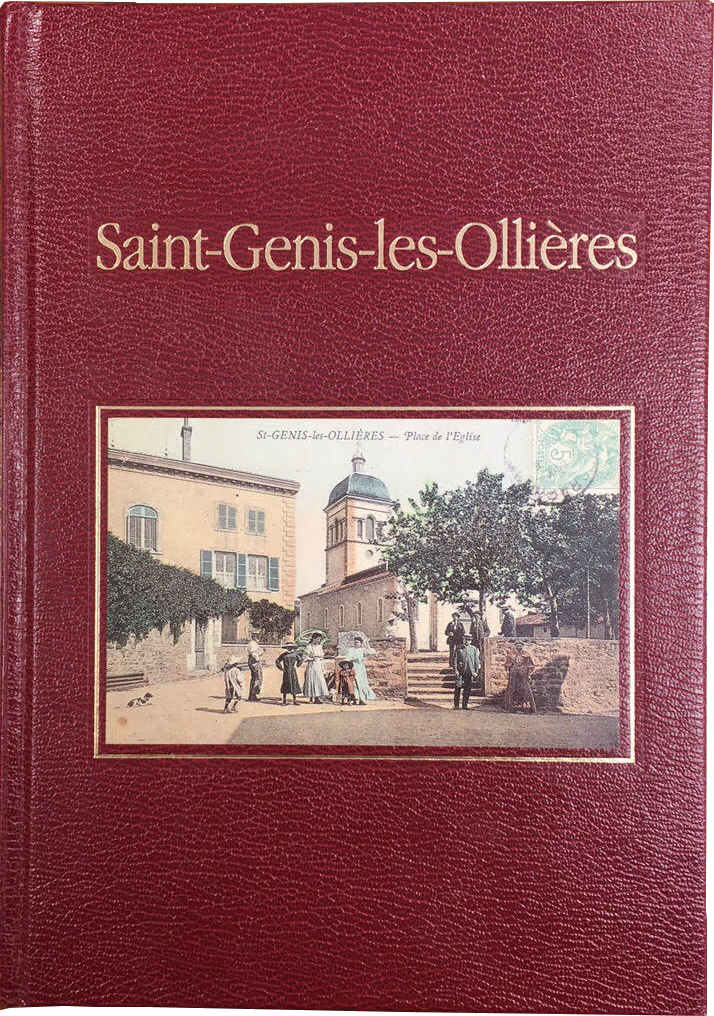
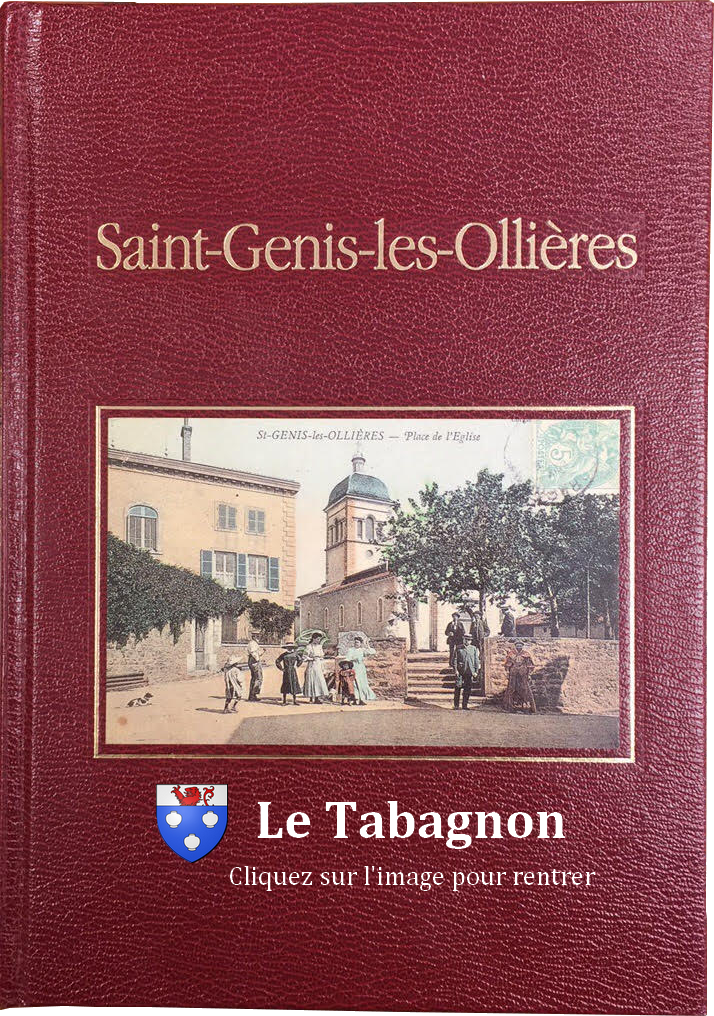
- Correction de fautes d'orthographes - Amélioration de la page de présentation - Corecctions diverses

Changed region(s): [[0.3081, 0.7628, 0.8319, 0.8848], [0.2157, 0.7628, 0.4314, 0.8543]]

diff --git a/public/assets/css/tabagnon.css b/public/assets/css/tabagnon.css
@@ -42,7 +42,7 @@ p {
 
 hr {
     max-width: 400px;
-    border-color: #999999;
+    border-color: #999999 !important;
 }
 
 .brand,
@@ -367,12 +367,7 @@ footer p {
 }
 
 .img-presentation{
-    object-fit: cover !important;
-    max-width : 30%;
-    margin-left : 7%;
-    margin-top : 2%;
-    margin-bottom : 2%;
-    float:left;
+    height : 50em;
 }
 
 .nomGuideVisite .ct{
@@ -444,8 +439,8 @@ body:after {
     height: 100px;
 }
 footer {
-    position: absolute;
-    width: 100%;
+    position: absolute !important;
+    width: 100% !important;
 }
 .sous-menu {
     text-decoration: none;

diff --git a/public/assets/js/tabagnon.js b/public/assets/js/tabagnon.js
@@ -42,6 +42,14 @@ $(document).ready(function () {
         dropdown: true,
         scrollbar: true
     });
+    var width = window.innerWidth
+            || document.documentElement.clientWidth
+            || document.body.clientWidth;
+
+    var height = window.innerHeight
+            || document.documentElement.clientHeight
+            || document.body.clientHeight;
+   
 });
 
 function checkSelected() {

diff --git a/resources/views/pageCarousel.blade.php b/resources/views/pageCarousel.blade.php
@@ -10,8 +10,8 @@
         {{$message or ""}}
         <div class='col-md-4 col-md-offset-4'>
             <input type='hidden' name="imageCarousel" value=""/>
-            <input type='hidden' name="MAX_FILE_SIZE" value="2048000"/>
-            <input type='file' name="imageCarousel" class="btn btn-default pull-left" accept="image/*"/> 
+            <input type='hidden' name="MAX_FILE_SIZE" value="5000000"/>
+            <input type='file' name="imageCarousel" class="btn btn-default" accept="image/*"/> 
         </div>
         
         <div class='col-md-offset-5 col-md-4'><button type="submit" class="btn btn-default btn-primary">
@@ -22,14 +22,14 @@
 </div>
 
 <div class="box">
-    <h1 class="carousel-title">Les images du carousel non affichées sur la page d'accueil</h1>
+    <h1 class="carousel-title">Les images du carrousel non affichées sur la page d'accueil</h1>
     <br>
     @foreach($lesImagesFalse as $uneImage)
     <div class='col-md-4 carousel-admin'>       
         <img class="img-news" src="{{ URL::asset('assets/image/carousel/'.$uneImage->image) }}" alt=""></a>
-        <a href='{{url('/ajouterCarousel/'.$uneImage->image)}}'><span class="glyphicon glyphicon-circle-arrow-down"></span> Ajouter l'image dans le carousel</a>
+        <a href='{{url('/ajouterCarousel/'.$uneImage->image)}}'><span class="glyphicon glyphicon-circle-arrow-down"></span> Ajouter l'image dans le carrousel</a>
         <br>
-        <a href='{{url('/supprimerCarousel/'.$uneImage->image)}}'><span class="glyphicon glyphicon-remove"></span> Supprimer l'image du carousel</a>
+        <a href='{{url('/supprimerCarousel/'.$uneImage->image)}}'><span class="glyphicon glyphicon-remove"></span> Supprimer l'image du carrousel</a>
     </div>
     @endforeach
 </div>
@@ -41,9 +41,9 @@
     @foreach($lesImagesTrue as $uneImage)   
     <div class='col-md-4 carousel-admin'>       
         <img class="img-news" src="{{ URL::asset('assets/image/carousel/'.$uneImage->image) }}" alt=""></a>
-        <a href='{{url('/retirerCarousel/'.$uneImage->image)}}'><span class="glyphicon glyphicon-circle-arrow-up"></span> Retirer l'image du carousel</a>
+        <a href='{{url('/retirerCarousel/'.$uneImage->image)}}'><span class="glyphicon glyphicon-circle-arrow-up"></span> Retirer l'image du carrousel</a>
         <br>
-        <a href='{{url('/supprimerCarousel/'.$uneImage->image)}}'><span class="glyphicon glyphicon-remove"></span> Supprimer l'image du carousel</a>       
+        <a href='{{url('/supprimerCarousel/'.$uneImage->image)}}'><span class="glyphicon glyphicon-remove"></span> Supprimer l'image du carrousel</a>       
     </div>
     
     @endforeach

diff --git a/resources/views/layouts/master.blade.php b/resources/views/layouts/master.blade.php
@@ -47,7 +47,7 @@
     <body onLoad="pass();">
         <div class="brand">
             <a href="{{url('/accueil')}}"><img src="{{URL::asset('assets/image/logoTabagnon.png')}}" alt="Logo Tabagnon" height="123" width="100"></a>
-            Tabagnon | <small>Saint-Genis-les-Ollières</small></div>
+            Le Tabagnon | <small>Saint-Genis-les-Ollières</small></div>
         <!-- Navigation -->
         <nav class="navbar navbar-default" role="navigation">
             <div class="container">
@@ -62,17 +62,17 @@
                     <!-- navbar-brand is hidden on larger screens, but visible when the menu is collapsed -->
                     <a class="navbar-brand" href="{{url('/accueil')}}">
                         <img src="{{URL::asset('assets/image/logoTabagnon.png')}}" alt="Logo Tabagnon" height="30" width="24">
-                        Association Tabagnon</a>
+                        Le Tabagnon</a> 
                 </div>
                 <!-- Collect the nav links, forms, and other content for toggling -->
-                <div class="collapse navbar-collapse" id="bs-example-navbar-collapse-1">
+                <div class="collapse navbar-collapse" id="bs-example-navbar-collapse-1"> 
                     @if(Session::get('ncpt') == 4)
                     <ul class="nav navbar-nav"> 
-                        <li><a href='{{ url('/getPageAdmin')}}' data-toggle='collapse' data-target='.navbar-collapse.in' class=''>Pannel Administration</a></li><hr>
+                        <li><a href='{{ url('/getPageAdmin')}}' data-toggle='collapse' data-target='.navbar-collapse.in' class=''>Pannel Administration</a></li>
                     </ul>
                     <hr>
-                    @endif
-                    <ul class="nav navbar-nav">                          
+                    @endif    
+                    <ul class="nav navbar-nav">
                         @if(Session::get('id') > 0)
                         <li><a href="{{url('/getProfil')}}" data-toggle="collapse" data-target=".navbar-collapse.in" class="">Compte</a></li>
                         <li><a href="{{url( '/mesReservations')}}" data-toggle="collapse" data-target=".navbar-collapse.in" class="">Agenda</a></li>

diff --git a/resources/views/layouts/masterAdmin.blade.php b/resources/views/layouts/masterAdmin.blade.php
@@ -10,7 +10,7 @@
         <meta name="description" content="">
         <meta name="author" content="">
 
-        <title>Association Tabagnon</title>
+        <title>Association Le Tabagnon</title>
 
        <!-- Bootstrap Core CSS -->
         {!! Html::style('assets/css/bootstrap.css') !!}
@@ -36,7 +36,7 @@
     <body>
         <div class="brand">
             <a href="{{url('/accueil')}}"><img src="{{URL::asset('assets/image/logoTabagnon.png')}}" alt="Logo Tabagnon" height="123" width="100"></a>
-            Tabagnon | <small>Saint-Genis-les-Ollières</small></div>
+            Le Tabagnon | <small>Saint-Genis-les-Ollières</small></div>
         <!-- Navigation -->
         <nav class="navbar navbar-default" role="navigation">
             <div class="container">
@@ -51,17 +51,15 @@
                     <!-- navbar-brand is hidden on larger screens, but visible when the menu is collapsed -->
                     <a class="navbar-brand" href="{{url('/accueil')}}">
                         <img src="{{URL::asset('assets/image/logoTabagnon.png')}}" alt="Logo Tabagnon" height="30" width="24">
-                        Tabagnon | <small>Saint-Genis-les-Ollières</small></a>
+                        Le Tabagnon</a>
                 </div>
                 <!-- Collect the nav links, forms, and other content for toggling -->
                 <div class="collapse navbar-collapse" id="bs-example-navbar-collapse-1">
-                    <div class="collapse navbar-collapse" id="bs-example-navbar-collapse-1">
                         <ul class="nav navbar-nav">                          
                             <li><a href="{{url('/accueil')}}" data-toggle="collapse" data-target=".navbar-collapse.in" class="">Accueil</a></li>  
                             <li><a href="{{url('/getPageAdmin')}}" data-toggle="collapse" data-target=".navbar-collapse.in" class="">Pannel administration</a></li>
                             <li><a href="{{url('/getLogout')}}" data-toggle="collapse" data-target=".navbar-collapse.in" class="">Se déconnecter</a></li>
                         </ul>
-                    </div>
                 </div>
                 <!-- /.navbar-collapse -->
             </div>

diff --git a/resources/views/accueil.blade.php b/resources/views/accueil.blade.php
@@ -23,7 +23,6 @@
 
                     <!-- Wrapper for slides -->
                     <div class="carousel-inner">
-
                         @php($cpt = 0)
                         @foreach($lesImages as $uneImage)
                         @if($cpt == 0)
@@ -51,7 +50,7 @@
                 <h2 class="brand-before">
                     <small>Bienvenue sur le site de l'association</small>
                 </h2>
-                <h1 class="brand-name titre_accueil">Tabagnon</h1>
+                <h1 class="brand-name titre_accueil">Le Tabagnon</h1>
                 <hr class="tagline-divider">
             </div>
         </div>        
@@ -96,14 +95,16 @@
                 <br>
                 @foreach($lesArticles as $unArticle)
                 <a href="{{url('/article/'.$unArticle->idArticle)}}">
-                    <div class="col-md-4">    
+                    <div class="col-lg-3 col-sm-6">   
+                        <center>
                         <img class="img-news" src="{{ URL::asset('assets/image/article/'.$unArticle->imageArticle) }}" alt="{{$unArticle->titreArticle}}">
                         <div class="col-md-12">        
                             <div class="news-title">
                                 <h4>{{$unArticle->titreArticle}}</h4>
                             </div>
                         </div>
-                        <br>
+                        <br><br>
+                        </center>
                     </div>
                 </a>
                 @endforeach

diff --git a/resources/views/pagePresentation.blade.php b/resources/views/pagePresentation.blade.php
@@ -43,23 +43,15 @@
     </head>
 
     <body>
-
-        <div>
-            <img class="img-presentation" src="{{ URL::asset('assets/image/livre-tabagnon1.png') }}" alt=""></a>
-        </div>
-        <div class="brand">
-            
-            <a class="brand" style="text-decoration:none;display: inherit;margin: 0;text-align: center;text-shadow: 1px 1px 2px rgba(0,0,0,0.5);font-size: 1em;font-weight: 700;line-height: normal;color: #fff;margin-top: 17%;" href="{{url('/accueil')}}"><img src="{{URL::asset('assets/image/logoTabagnon.png')}}" alt="Logo Tabagnon" height="123" width="100">Tabagnon<br><small>Cliquez pour ici entrer</small></a>
+        <br>
+        <div class="col-md-12">
+            <center>
+                <a href="{{url('/accueil')}}"><img class="img-presentation" src="{{ URL::asset('assets/image/livre-tabagnon1.png') }}" alt=""></a>
+            </center>
         </div>
     </body>
 
-
-
 </html>
 
-
-<body>
-
-</body>
 
 

diff --git a/resources/views/Conference/pageModifConf.blade.php b/resources/views/Conference/pageModifConf.blade.php
@@ -44,8 +44,8 @@
         <label> Adresse de la conférence: </label>
         <input type='text' class='form-control adresseConf' name='adresseConf' value='{{$mesConferences->adresseConf}}' placeholder='Adresse de la conférence'>
         <br>
-        <label> Code Postale de la conférence: </label>
-        <input type='text' class='form-control cpConf' name='cpConf' value='{{$mesConferences->cpConf}}' placeholder='Code Postale de la conférence'>
+        <label> Code Postal de la conférence: </label>
+        <input type='text' class='form-control cpConf' name='cpConf' value='{{$mesConferences->cpConf}}' placeholder='Code Postal de la conférence'>
         <br>
         <center><button type='submit' class='btn btn-info' value='Envoyer'>Envoyer</button></center>
     </div>

diff --git a/resources/views/pageAdmin.blade.php b/resources/views/pageAdmin.blade.php
@@ -21,7 +21,7 @@
         </div>       
         <div class='option-admin'>
             <h1 class="titre-admin"><span class='glyphicon glyphicon-th-large'></span> Divers</h1>
-            <a href="{{url('/carouselAccueil')}}" data-toggle="collapse" data-target=".navbar-collapse.in" class="">Carousel</a><br>
+            <a href="{{url('/carouselAccueil')}}" data-toggle="collapse" data-target=".navbar-collapse.in" class="">Carrousel</a><br>
             <a href='{{url('/getPageValidMosa')}}' data-toggle="collapse" data-target=".narvar-collapse.in" class="">Validation photo Mosaïque</a><br>
             <a href='{{url('/getAvis')}}' data-toggle="collapse" data-target=".narvar-collapse.in" class="">Voir les avis</a><br><br>
         </div>      

diff --git a/resources/views/Article/listeArticle.blade.php b/resources/views/Article/listeArticle.blade.php
@@ -1,8 +1,9 @@
 @extends('layouts.master')
 @section('content')
-
+@php
+$cptA = 0;
+@endphp
 <div class="box">
-    <center><p>______________________________</p></center>
     @foreach ($lesArticles as $unArticle)
     <a href="{{url('/article/'.$unArticle->idArticle)}}">
         <div class="col-md-10 col-md-offset-2 liste-news">    
@@ -14,7 +15,10 @@
             <p class="cliquezArticle">Cliquer pour voir l'article en entier !</p>
         </div>
     </a>
+    @if($cptA != count($lesArticles)-1)
     <center><p>______________________________</p></center>
+    @endif
+    @php($cptA += 1) 
     @endforeach
     <center>  {{ $lesArticles->render() }} </center>
 </div>

diff --git a/resources/views/Conference/formAjoutConference.blade.php b/resources/views/Conference/formAjoutConference.blade.php
@@ -40,8 +40,8 @@
         <label> Adresse de la conférence: </label>
         <input type='text' class='form-control adresseConf' name='adresseConf' value='' placeholder='Adresse de la conférence'>
         <br>
-        <label> Code Postale de la conférence: </label>
-        <input type='text' class='form-control cpConf' name='cpConf' value='' placeholder='Code Postale de la conférence'>
+        <label> Code Postal de la conférence: </label>
+        <input type='text' class='form-control cpConf' name='cpConf' value='' placeholder='Code Postal de la conférence'>
         <br>
         <div class="input_fields_wrap">
             <div class='form-group'>

diff --git a/resources/views/Mosaique/pageMosaique.blade.php b/resources/views/Mosaique/pageMosaique.blade.php
@@ -20,7 +20,7 @@
         <div class='col-md-4'>
             <input type='hidden' name="imageMosaique" value=""/>
             <input type='hidden' name="MAX_FILE_SIZE" value="5000000"/>
-            <input type='file' name="imageMosaique" class="btn btn-default pull-left" accept="image/*" required/>
+            <input type='file' name="imageMosaique" class="btn btn-default" accept="image/*" required/>
         </div>
         <div class="col-md-4">
             <input type="text" class="form-control" name="descriptionImage" value="" placeholder="Courte description de l'image" required>
